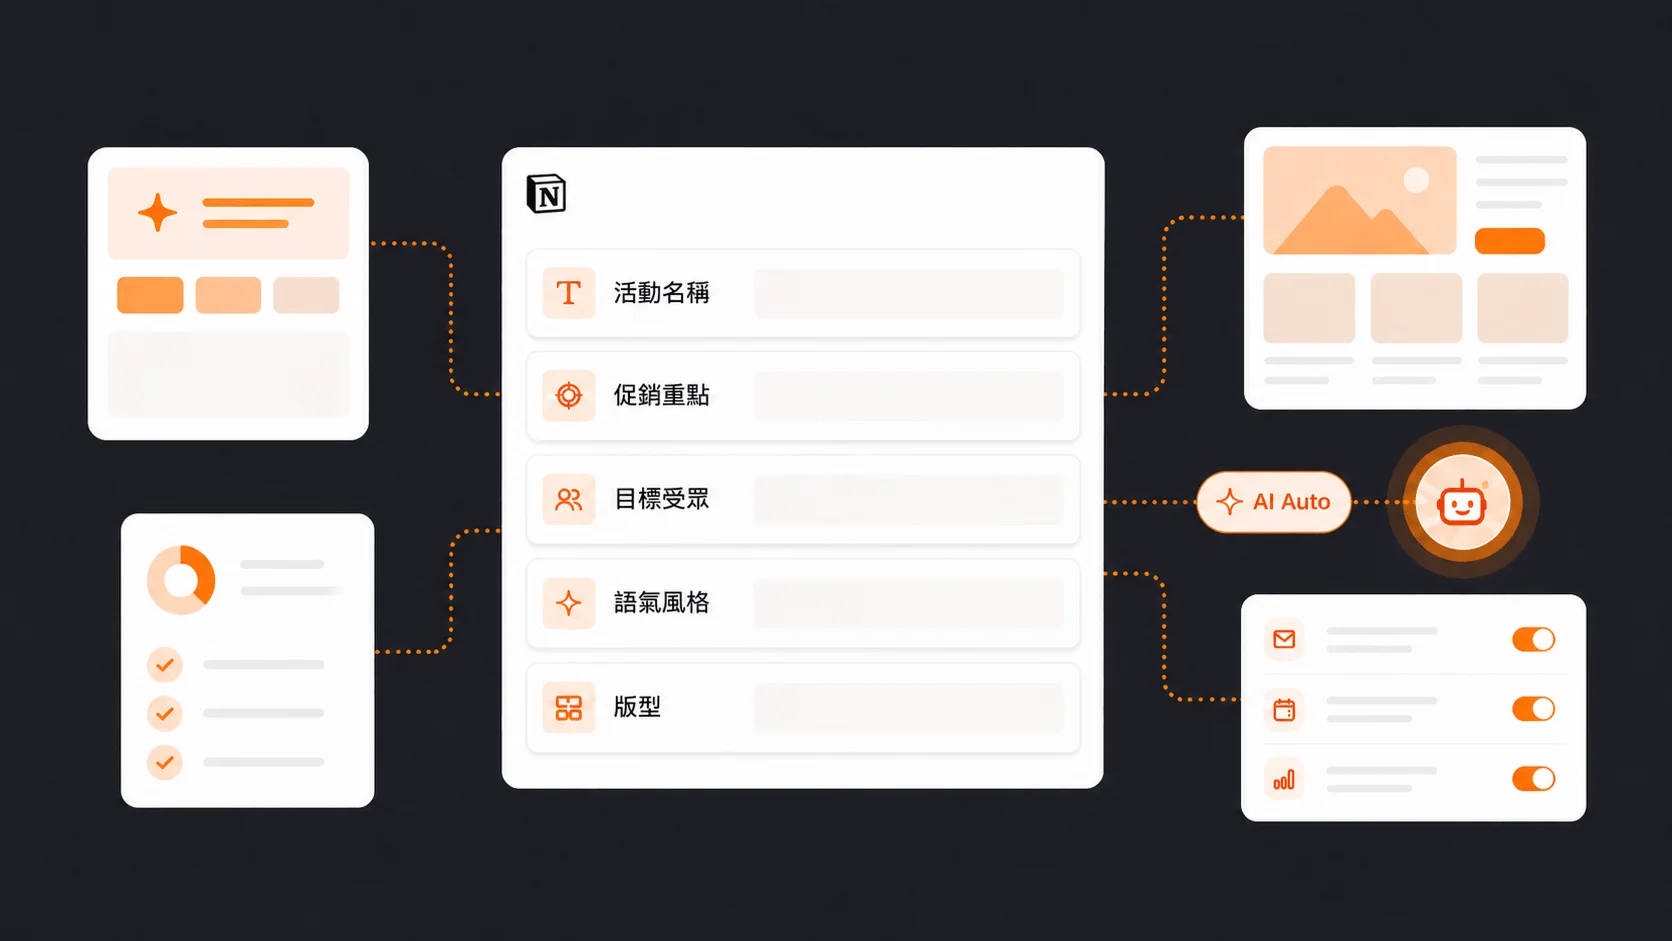
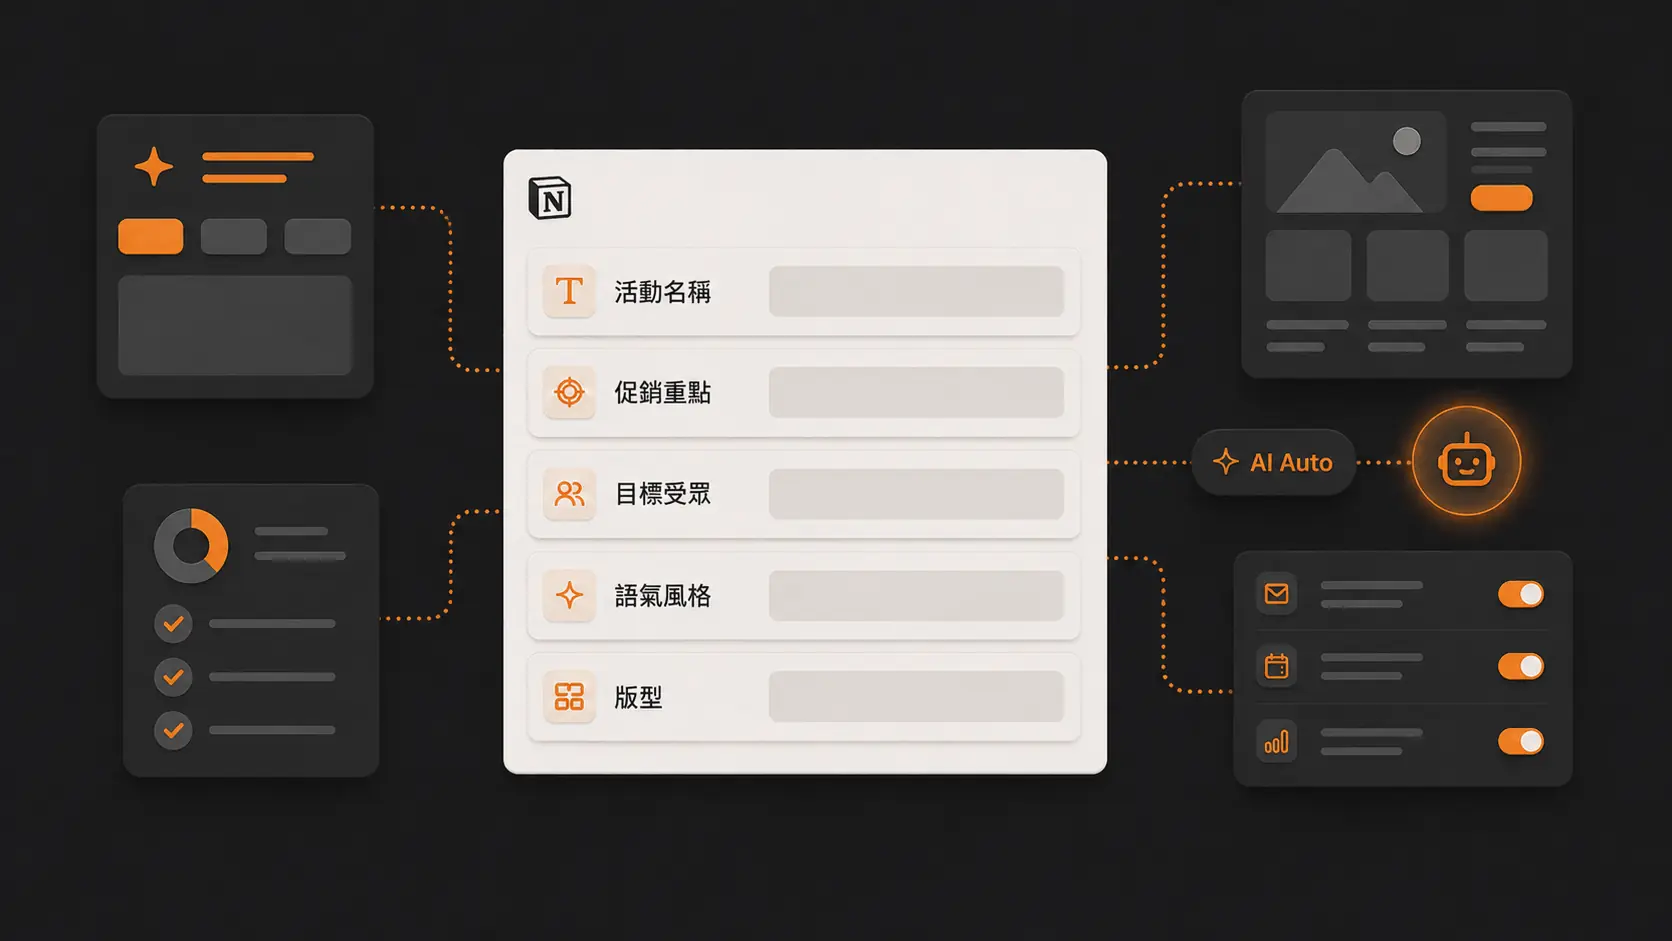
更新: Story 5 個 step 全部換正式圖
- step 1-3 覆蓋舊版（Kay 統一修改後重提供）
- step 4 (WCAG) / step 5 (Chat 通知) 新建,Story.tsx 從 unsplash 假圖換本地 webp
- 5 張 PNG 經 cwebp q75 壓成 16-35 KB,全 < 150 KB spec 上限
- README 命名建議對齊實作 (step-1-notion-form → step-1-fill-form)

diff --git a/app/components/Story.tsx b/app/components/Story.tsx
@@ -42,7 +42,7 @@ const steps: Step[] = [
     navLabel: "自動組裝",
     title: "自動組裝 + WCAG 檢查",
     body: "文字和底圖自動拼起來,檢查對比度是否達到無障礙標準、文字有沒有超出邊界。不合格的系統直接退回重做,醜 banner 上不了架。",
-    image: "https://images.unsplash.com/photo-1551288049-bebda4e38f71?w=1000&h=750&fit=crop",
+    image: "/images/story/step-4-assemble-wcag.webp",
     imageAlt: "WCAG 對比度檢查",
     layout: "split",
   },
@@ -50,8 +50,8 @@ const steps: Step[] = [
     navLabel: "下載使用",
     title: "Google Chat 通知 Drive 下載",
     body: "每階段完成 Google Chat 會提醒你。點連結進 Notion 審核,成品連結直接通往 Drive。不滿意?點「退回」重跑該階段。",
-    image: "https://images.unsplash.com/photo-1611162617474-5b21e879e113?w=1400&h=800&fit=crop",
-    imageAlt: "Chat 通知",
+    image: "/images/story/step-5-chat-drive.webp",
+    imageAlt: "Chat 通知 Drive 下載",
     layout: "stack",
   },
 ];
